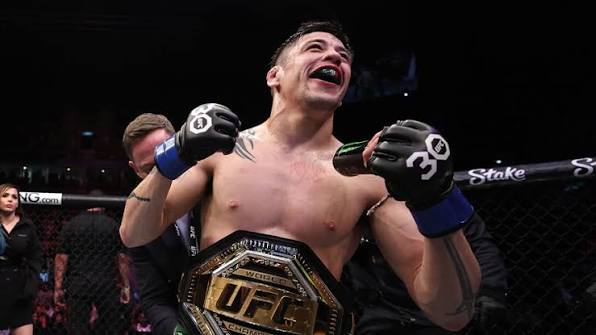
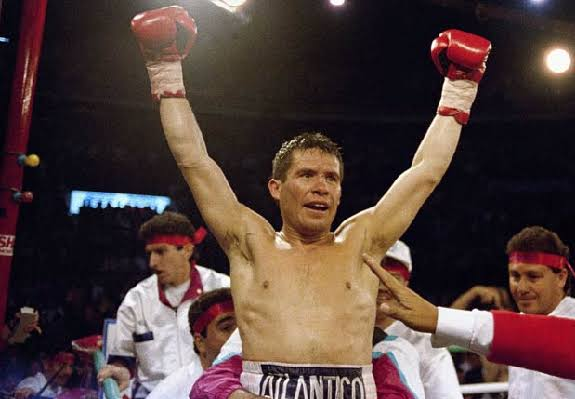
Actualiza fotos del carrusel y testimonio de la landing

diff --git a/index.html b/index.html
@@ -63,8 +63,8 @@
       <!-- Carrusel: las imágenes se turnan cada 2 segundos (ver script al final) -->
       <div class="hero-carrusel" aria-hidden="true">
         <img class="slide activa" src="peleador1.jpeg" alt="">
-        <img class="slide" src="peleador2.jpg" alt="">
-        <img class="slide" src="peleador3.jpg" alt="">
+        <img class="slide" src="peleador2.jpeg" alt="">
+        <img class="slide" src="peleador3.jpeg" alt="">
         <img class="slide" src="peleador4.jpg" alt="">
       </div>
     </section>
@@ -158,8 +158,8 @@
               <p>"Antes dependía de contactos y de que alguien me viera pelear en el momento justo. Con mi perfil en FightScout, mi récord y mi estilo hablan por mí: los coaches que buscan lo que yo ofrezco me encuentran directo."</p>
             </blockquote>
             <cite>
-              <span class="testimonio-nombre">Chito Vera</span>
-              <span class="testimonio-rol">Peleador de la UFC</span>
+              <span class="testimonio-nombre">Mayton Perea</span>
+              <span class="testimonio-rol">Participante del DWCS</span>
             </cite>
           </article>
         </li>
